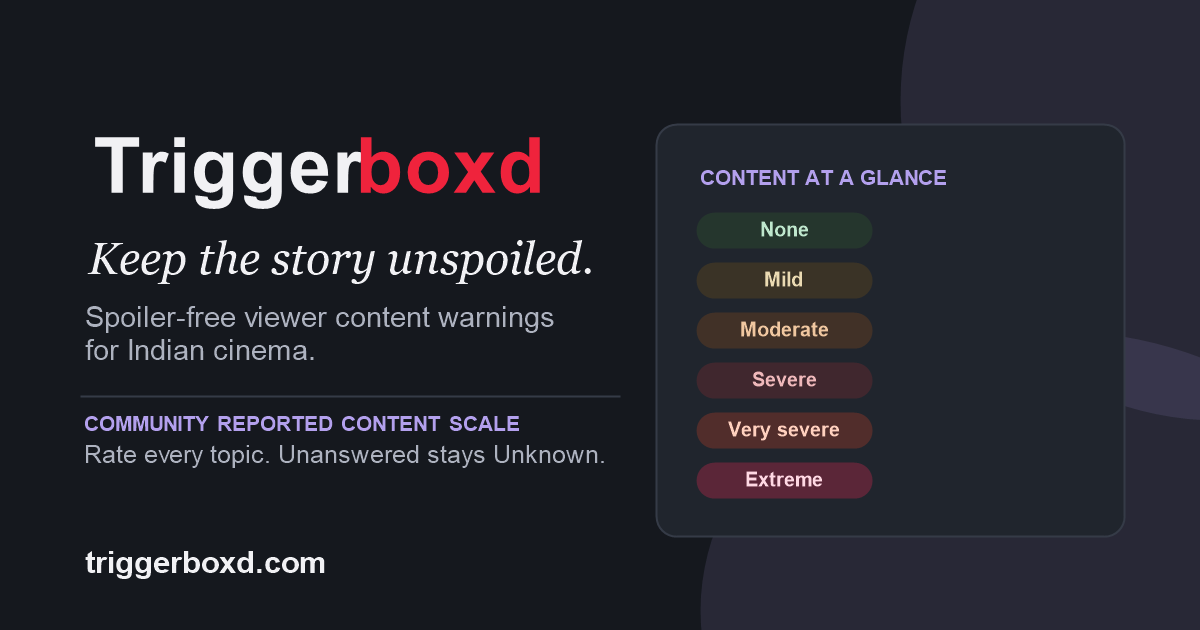
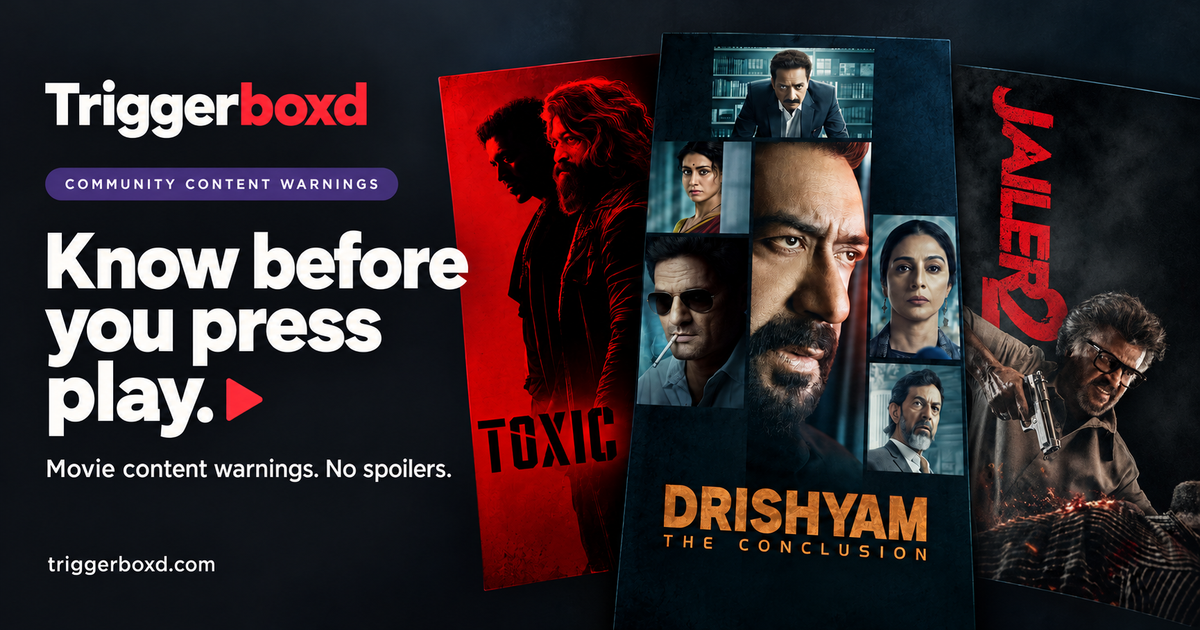
Publish movie-focused social preview with Jailer 2

diff --git a/src/app/layout.tsx b/src/app/layout.tsx
@@ -4,5 +4,5 @@ import './globals.css';
 import './film-ui.css';
 import {AccountNavigation} from '../components/account-navigation';
 import {Wordmark} from '../components/wordmark';
-export const metadata:Metadata={metadataBase:new URL('https://triggerboxd.com'),title:{default:'Triggerboxd: Keep the story unspoiled',template:'%s | Triggerboxd'},description:'Spoiler-free viewer content warnings for Indian cinema. Unanswered categories remain Unknown.',openGraph:{title:'Triggerboxd: Keep the story unspoiled',description:'Spoiler-free viewer content warnings for Indian cinema. Rate every topic; unanswered stays Unknown.',type:'website',images:[{url:'/social-card.png',width:1200,height:630,alt:'Triggerboxd: keep the story unspoiled. Spoiler-free viewer content warnings for Indian cinema.'}]},twitter:{card:'summary_large_image',images:['/social-card.png']}};
+export const metadata:Metadata={metadataBase:new URL('https://triggerboxd.com'),title:{default:'Triggerboxd: Keep the story unspoiled',template:'%s | Triggerboxd'},description:'Spoiler-free viewer content warnings for Indian cinema. Unanswered categories remain Unknown.',openGraph:{title:'Triggerboxd: Keep the story unspoiled',description:'Spoiler-free viewer content warnings for Indian cinema. Rate every topic; unanswered stays Unknown.',type:'website',images:[{url:'/social-card.png?v=movies-2',width:1200,height:630,alt:'Triggerboxd: keep the story unspoiled. Spoiler-free viewer content warnings for Indian cinema.'}]},twitter:{card:'summary_large_image',images:['/social-card.png?v=movies-2']}};
 export default function Layout({children}:{children:React.ReactNode}){return <html lang="en" data-scroll-behavior="smooth"><body><a className="skip" href="#main">Skip to content</a><header className="header wrap"><Link className="wordmark" href="/" aria-label="Triggerboxd home"><Wordmark/></Link><nav aria-label="Main navigation"><Link href="/search/">Find a film</Link><Link href="/watched/">Watched</Link><AccountNavigation/></nav></header>{children}<footer className="footer wrap"><Link className="wordmark small" href="/" aria-label="Triggerboxd home"><Wordmark/></Link><p>Content warnings. Story intact.</p><nav aria-label="Footer navigation"><Link href="/about/">About & contact</Link><Link href="/privacy/">Privacy</Link></nav><small>Early preview · Indian cinema</small></footer></body></html>}
